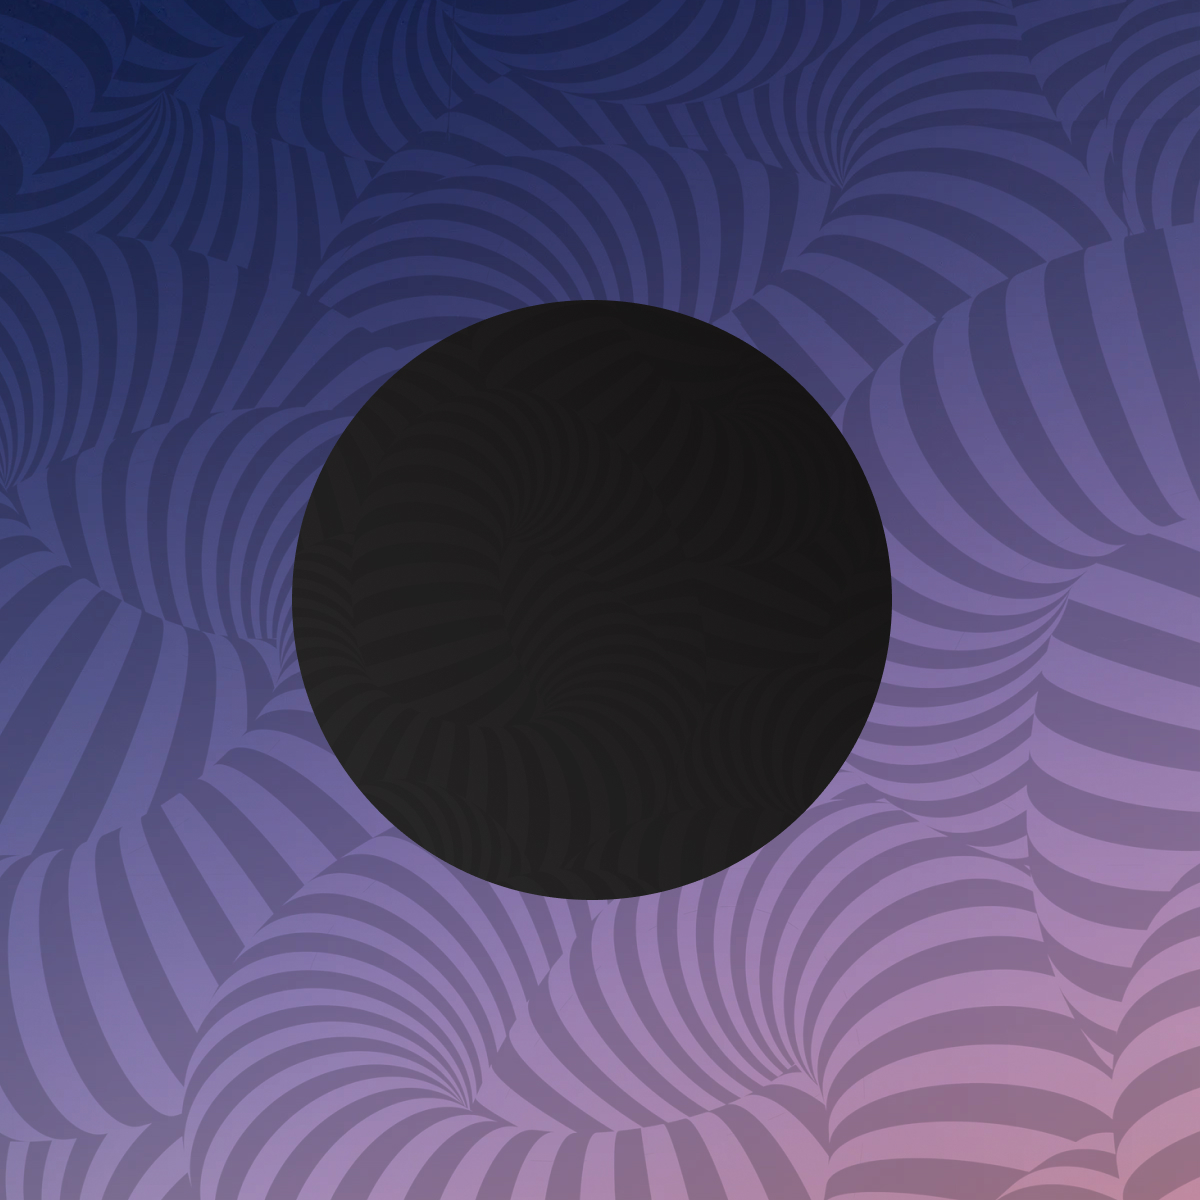
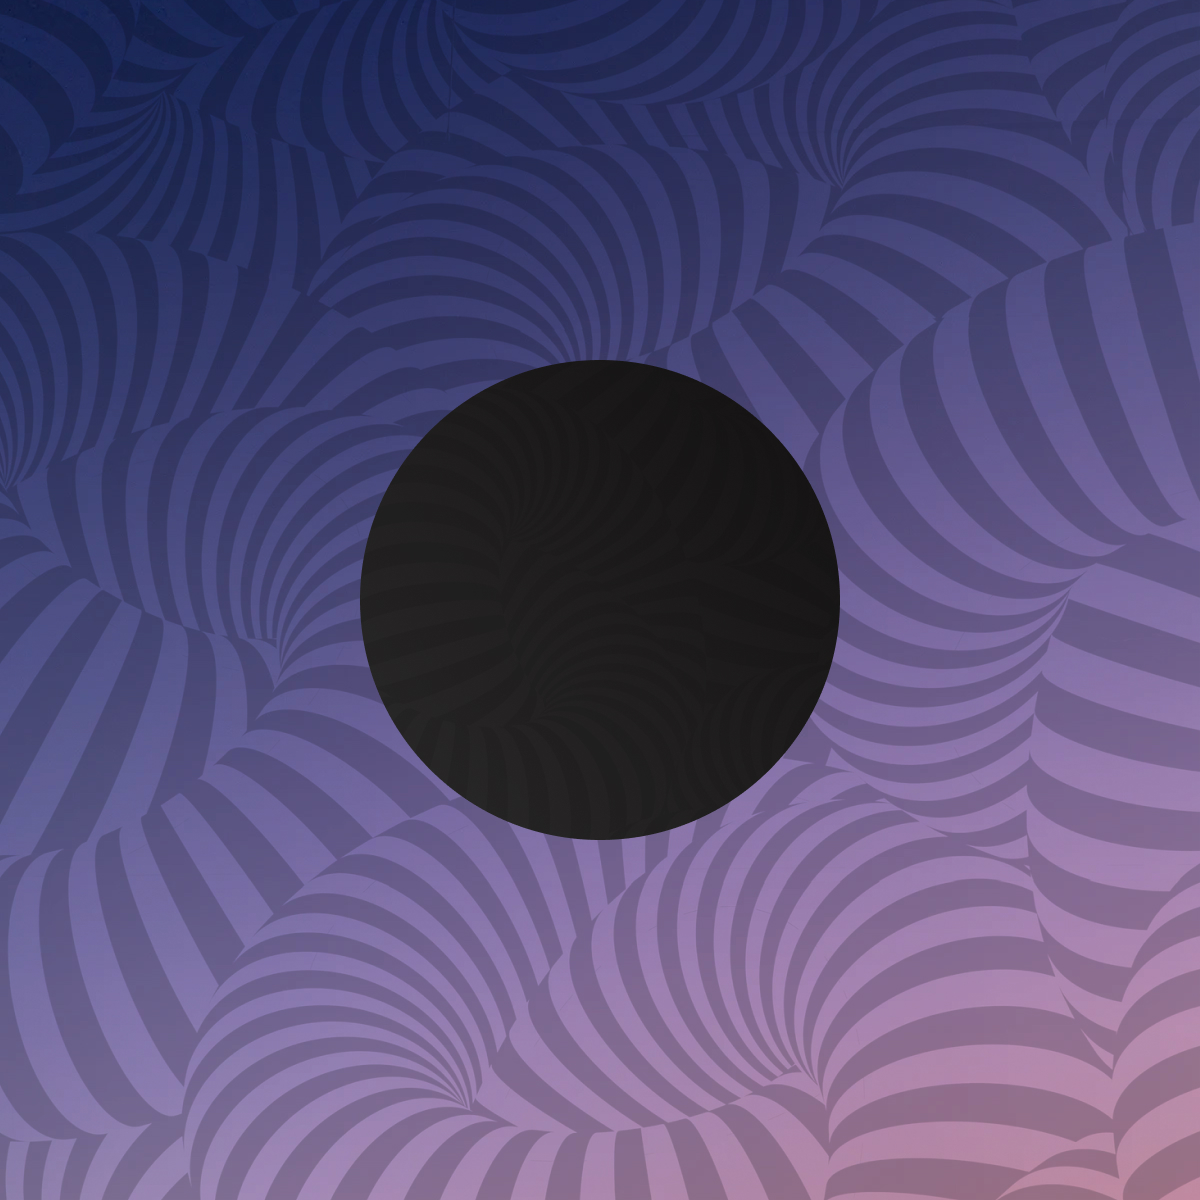
Updpate trackedImage asset

Changed region(s): [[0.2158, 0.2467, 0.7708, 0.7708]]

diff --git a/src/components/App.js b/src/components/App.js
@@ -20,7 +20,7 @@ function App() {
 
   const doCreateTrackableImage = async () => {
     try {
-      const currTrackableImage = await createTrackableImage(image.current, 0.11)
+      const currTrackableImage = await createTrackableImage(image.current, 0.1)
       setTrackableImage(currTrackableImage.image)
     } catch (err) {
       console.log(err);
